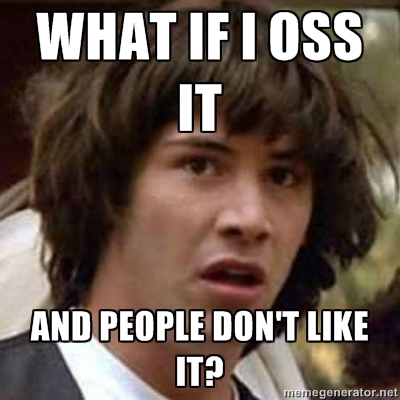
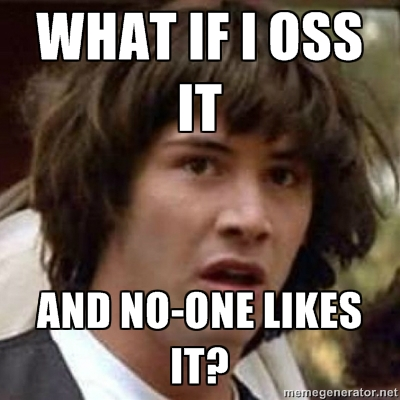
updated what-if-i-oss-it.jpg and add bigger margin after post meta

Changed region(s): [[0.06, 0.72, 0.93, 0.99]]

diff --git a/_layouts/default.html b/_layouts/default.html
@@ -57,7 +57,7 @@
       }
       
       p.post-meta {
-        margin-bottom: 0.5em;
+        margin-bottom: 1.5em;
       }
 
       .tag-count {
